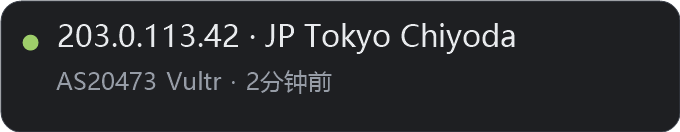
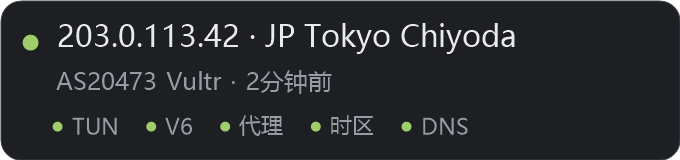
更新 project-ip-float：v3.2.0（三行卡片 + 五个状态徽章 + 诊断窗口）
卡片图重生成（680x160，第三行五个状态点）。

文案：
  · meta / og / twitter 描述改成三行 + 徽章，体积 812 -> 940 KB
  · 副标题从「两行看清自己从哪个 IP」改成「有没有第二条路漏出去」
  · 历史点卡片换成「五个状态徽章」，重点讲空心圈 = 不适用，不是通过也不是失败
  · 新增「右键网络诊断」卡片：给依据而不只给结论
  · 自检模式从三种变四种（加了 --diag，报告用 .txt + .json）
  · 模块数 10 -> 14

diff --git a/project-ip-float.html b/project-ip-float.html
@@ -12,18 +12,18 @@
        这里补一条，让行内代码用站点自己的等宽字体而不是浏览器默认的 monospace。 */
     code { font-family: var(--font-mono); font-size: 0.88em; }
   </style>
-  <meta name="description" content="A 812 KB single-file Windows desktop card that shows your outbound IP, geolocation and ASN in two lines — zero runtime dependencies, no installer | 812 KB 单文件 Windows 桌面悬浮卡片，两行显示出口 IP、归属地与 ASN，零运行时依赖、无需安装">
+  <meta name="description" content="A 940 KB single-file Windows desktop card that shows your outbound IP, geolocation and ASN — plus five live badges telling you whether the tunnel actually carries your traffic — zero runtime dependencies, no installer | 940 KB 单文件 Windows 桌面悬浮卡片，三行显示出口 IP、归属地，以及五个状态徽章：隧道是否接管、IPv6 是否泄漏、系统代理是否叠加、时区是否一致、DNS 是否走隧道。零运行时依赖、无需安装">
   <link rel="canonical" href="https://jiqinghuang.github.io/project-ip-float.html">
   <link rel="icon" href="favicon.svg" type="image/svg+xml">
   <meta property="og:type" content="website">
   <meta property="og:site_name" content="JQ">
   <meta property="og:title" content="Outbound IP Desktop Widget | JQ">
-  <meta property="og:description" content="A 812 KB single-file Windows desktop card that shows your outbound IP, geolocation and ASN in two lines — zero runtime dependencies, no installer | 812 KB 单文件 Windows 桌面悬浮卡片，两行显示出口 IP、归属地与 ASN">
+  <meta property="og:description" content="A 940 KB single-file Windows desktop card that shows your outbound IP, geolocation and ASN, with five live status badges for tunnel, IPv6, proxy, timezone and DNS — zero runtime dependencies, no installer | 940 KB 单文件 Windows 桌面悬浮卡片，三行显示出口 IP、归属地，以及五个状态徽章">
   <meta property="og:url" content="https://jiqinghuang.github.io/project-ip-float.html">
   <meta property="og:image" content="https://jiqinghuang.github.io/assets/ip-float/card.png">
   <meta name="twitter:card" content="summary_large_image">
   <meta name="twitter:title" content="Outbound IP Desktop Widget | JQ">
-  <meta name="twitter:description" content="A 812 KB single-file Windows desktop card showing your outbound IP, geolocation and ASN in two lines — zero runtime dependencies.">
+  <meta name="twitter:description" content="A 940 KB single-file Windows desktop card showing your outbound IP, geolocation and ASN, with five live status badges for tunnel, IPv6, proxy, timezone and DNS — zero runtime dependencies.">
   <meta name="twitter:image" content="https://jiqinghuang.github.io/assets/ip-float/card.png">
 </head>
 <body>
@@ -50,7 +50,7 @@
   <section class="page-hero">
     <div class="container">
       <h1><span data-lang="cn">出口 IP 桌面悬浮窗</span><span data-lang="en">Outbound IP Desktop Widget</span></h1>
-      <p><span data-lang="cn">// 两行看清自己从哪个 IP、哪个机房出网 · Windows 原生单文件</span><span data-lang="en">// Two lines that tell you which IP and which datacenter you egress from — one native Windows binary</span></p>
+      <p><span data-lang="cn">// 三行看清自己从哪个 IP 出网、有没有第二条路漏出去 · Windows 原生单文件</span><span data-lang="en">// Three lines that tell you which IP you egress from — and whether anything leaks around the tunnel — one native Windows binary</span></p>
       <div class="tech-tags">
         <span class="tech-tag">C++17</span>
         <span class="tech-tag">Win32 API</span>
@@ -69,8 +69,8 @@
         </a>
       </div>
       <p style="margin-top:20px;font-family:var(--font-mono);font-size:0.78rem;color:var(--text-dim)">
-        <span data-lang="cn">单文件 exe（v3.1.0，约 812 KB），双击即用 —— 不需要安装、不需要管理员权限。<br>Windows 首次运行可能提示安全警告，处理办法见仓库 README。</span>
-        <span data-lang="en">A single ~812 KB exe (v3.1.0) — double-click to run. No installer, no admin rights.<br>Windows may warn on first launch; the README covers the fix.</span>
+        <span data-lang="cn">单文件 exe（v3.2.0，约 940 KB），双击即用 —— 不需要安装、不需要管理员权限。<br>Windows 首次运行可能提示安全警告，处理办法见仓库 README。</span>
+        <span data-lang="en">A single ~940 KB exe (v3.2.0) — double-click to run. No installer, no admin rights.<br>Windows may warn on first launch; the README covers the fix.</span>
       </p>
     </div>
   </section>
@@ -82,7 +82,7 @@
       <p class="section-subtitle fade-in" style="text-align:center"><span data-lang="cn">桌面应用没法在线试玩，所以先把界面原样摆出来 &nbsp;·&nbsp; 点击图片可放大</span><span data-lang="en">A desktop app cannot be tried in a browser, so here is the interface as it actually renders &nbsp;·&nbsp; Click to enlarge</span></p>
 
       <div class="fade-in" style="margin-top:32px;background:#1e1f22;border:1px solid var(--border);border-radius:var(--radius-lg);padding:56px 24px;display:flex;justify-content:center">
-        <img src="assets/ip-float/card.png" alt="ip-float 悬浮卡片：上行显示 203.0.113.42 · JP Tokyo Chiyoda，下行显示 AS20473 Vultr · 2分钟前" width="680" height="132" loading="lazy" decoding="async" style="max-width:100%;height:auto;display:block">
+        <img src="assets/ip-float/card.png" alt="ip-float 悬浮卡片：第一行 203.0.113.42 · JP Tokyo Chiyoda，第二行 AS20473 Vultr · 2分钟前，第三行五个绿色状态点 TUN / V6 / 代理 / 时区 / DNS" width="680" height="160" loading="lazy" decoding="async" style="max-width:100%;height:auto;display:block">
       </div>
       <p class="fade-in" style="margin-top:14px;text-align:center;font-family:var(--font-mono);font-size:0.76rem;color:var(--text-dim)">
         <span data-lang="cn">卡片本体 · 340 &times; 66 逻辑像素 · 图为 200% DPI 实拍（示例数据）</span>
@@ -136,7 +136,7 @@
       <p class="section-subtitle fade-in" style="text-align:center"><span data-lang="cn">一个足够小的工具，把该做对的细节都做对</span><span data-lang="en">A deliberately small tool that still gets the details right</span></p>
       <div class="stats-row fade-in">
         <div class="stat-card">
-          <div class="stat-number">812 <span style="font-size:1.1rem">KB</span></div>
+          <div class="stat-number">940 <span style="font-size:1.1rem">KB</span></div>
           <div class="stat-label"><span data-lang="cn">单文件成品</span><span data-lang="en">Single-File Binary</span></div>
         </div>
         <div class="stat-card">
@@ -144,7 +144,7 @@
           <div class="stat-label"><span data-lang="cn">运行时依赖</span><span data-lang="en">Runtime Dependencies</span></div>
         </div>
         <div class="stat-card">
-          <div class="stat-number">10</div>
+          <div class="stat-number">14</div>
           <div class="stat-label"><span data-lang="cn">按职责拆分的模块</span><span data-lang="en">Modules by Responsibility</span></div>
         </div>
         <div class="stat-card">
@@ -170,8 +170,12 @@
           <p><span data-lang="cn">双击托盘图标显示/隐藏；右键菜单含状态行（当前数据源与更新时间）、立即刷新、刷新间隔、设置、复制 IP、总在最前、开机自启、退出——并且会显示当前实际生效的配置文件路径。</span><span data-lang="en">Double-click the tray icon to show or hide the card. The context menu carries a status line (current data source and update time), refresh now, interval presets, settings, copy IP, always-on-top, run at login and quit — and it shows the configuration path actually in effect.</span></p>
         </div>
         <div class="card">
-          <h3><span data-lang="cn">状态点区分三种状态</span><span data-lang="en">One Dot, Three States</span></h3>
-          <p><span data-lang="cn">绿点=数据正常，灰点=正在查询，橙点=上次刷新失败。不用读文字，扫一眼颜色就知道现在这份数字可不可信。</span><span data-lang="en">Green means fresh data, grey means a query is in flight, amber means the last refresh failed — a glance at the colour tells you whether the number in front of you can be trusted.</span></p>
+          <h3><span data-lang="cn">第三行：五个状态徽章</span><span data-lang="en">A Third Line: Five Status Badges</span></h3>
+          <p><span data-lang="cn">TUN / V6 / 代理 / 时区 / DNS，绿=正常、黄=存疑、红=有问题。关键在第四种状态：<b>空心圈</b>表示"当前配置下这项检查不适用"——没开隧道时问"隧道接管了吗"没有意义，它不会假装通过，也不会假装失败。没测到是实心灰点，两者绝不混用。</span><span data-lang="en">TUN / V6 / proxy / timezone / DNS, where green is fine, amber is doubtful and red is a problem. The fourth state matters most: a <b>hollow ring</b> means the check does not apply to your current setup — asking "did the tunnel take over" while no tunnel is running has no answer, and the tool says so instead of pretending either way. "Not applicable" and "could not measure" are never drawn the same.</span></p>
+        </div>
+        <div class="card">
+          <h3><span data-lang="cn">右键「网络诊断…」：给依据，不只给结论</span><span data-lang="en">Right-Click Diagnostics: Evidence, Not Just a Verdict</span></h3>
+          <p><span data-lang="cn">徽章只是结论。想知道为什么，打开诊断窗口：每一行下面都写着判定依据，例如"IPv6 出口 2408:… 与 IPv4 出口 45.77… 不同源"。它读的是本机路由表和注册表，加上两次免费探测——开销只有一次 geo 请求和一次本地 DNS 查询，不额外花钱，也不需要你手动刷新。</span><span data-lang="en">The badges are only the verdict. Open the diagnostics window to see why: every row carries its own evidence, such as "IPv6 egress 2408:… differs from IPv4 egress 45.77…". Verdicts come from the routing table and the registry plus two free probes — the running cost is one geolocation request and one local DNS query, with no paid API and no manual refresh.</span></p>
         </div>
         <div class="card">
           <h3><span data-lang="cn">只报该报的</span><span data-lang="en">Data Leaves Only When It Must</span></h3>
@@ -232,16 +236,18 @@
       <h2 class="section-title fade-in" style="text-align:center"><span data-lang="cn">30 秒自检</span><span data-lang="en">Verify It in 30 Seconds</span></h2>
       <p class="section-subtitle fade-in" style="text-align:center"><span data-lang="cn">没法在线试玩，但你可以不联网、不安装地先确认渲染是好的</span><span data-lang="en">You cannot try it online, but you can confirm the rendering offline without installing anything</span></p>
       <p class="fade-in" style="max-width:760px;margin:24px auto 0;color:var(--text-dim);font-size:0.95rem;line-height:1.9;text-align:center">
-        <span data-lang="cn">这是这个项目里我最满意的一个设计：exe 自带三种自检模式——<code>--render</code> 直接把卡片画进 PNG（不依赖桌面、壁纸或屏幕 DPI），<code>--shot</code> 抓真实卡片窗口，<code>--shot-dlg</code> 抓设置窗口。全部用演示数据、不联网、不受单实例限制，改完界面可以随时验证。</span>
-        <span data-lang="en">This is the part of the project I am happiest with: three self-check modes — <code>--render</code> draws the card straight into a PNG (independent of the desktop, wallpaper or screen DPI), <code>--shot</code> captures the real card window, and <code>--shot-dlg</code> captures the settings dialog. All use sample data, skip the network and bypass the single-instance check, so the UI can be re-verified after any change.</span>
+        <span data-lang="cn">这是这个项目里我最满意的一个设计：exe 自带四种自检模式——<code>--render</code> 直接把卡片画进 PNG（不依赖桌面、壁纸或屏幕 DPI），<code>--diag</code> 输出一份出口体检报告，<code>--shot</code> 抓真实卡片窗口，<code>--shot-dlg</code> 抓设置窗口。前三种完全离线，改完界面可以随时验证。</span>
+        <span data-lang="en">This is the part of the project I am happiest with: four self-check modes — <code>--render</code> draws the card straight into a PNG (independent of the desktop, wallpaper or screen DPI), <code>--diag</code> writes an egress health report, <code>--shot</code> captures the real card window, and <code>--shot-dlg</code> captures the settings dialog. The first three are fully offline, so the UI can be re-verified after any change.</span>
       </p>
       <div class="fade-in" data-lang="cn" style="max-width:720px;margin:28px auto 0">
         <pre style="background:var(--bg-elevated);border:1px solid var(--border);border-radius:var(--radius);padding:20px 22px;overflow-x:auto;font-family:var(--font-mono);font-size:0.8rem;line-height:1.95;color:var(--text);margin:0"><code>ip-float.exe --render out.png             # 离屏渲染卡片（透明圆角，2x）
+ip-float.exe --diag report.txt            # 出口体检报告（.txt + .json，不建窗口）
 ip-float.exe --demo --shot out.png        # 屏幕抓卡片（演示数据）
 ip-float.exe --demo --shot-dlg dlg.png    # 拍设置窗口</code></pre>
       </div>
       <div class="fade-in" data-lang="en" style="max-width:720px;margin:28px auto 0">
         <pre style="background:var(--bg-elevated);border:1px solid var(--border);border-radius:var(--radius);padding:20px 22px;overflow-x:auto;font-family:var(--font-mono);font-size:0.8rem;line-height:1.95;color:var(--text);margin:0"><code>ip-float.exe --render out.png             # off-screen card render (transparent, 2x)
+ip-float.exe --diag report.txt            # egress health report (.txt + .json, no window)
 ip-float.exe --demo --shot out.png        # capture the card on screen (demo data)
 ip-float.exe --demo --shot-dlg dlg.png    # capture the settings dialog</code></pre>
       </div>
